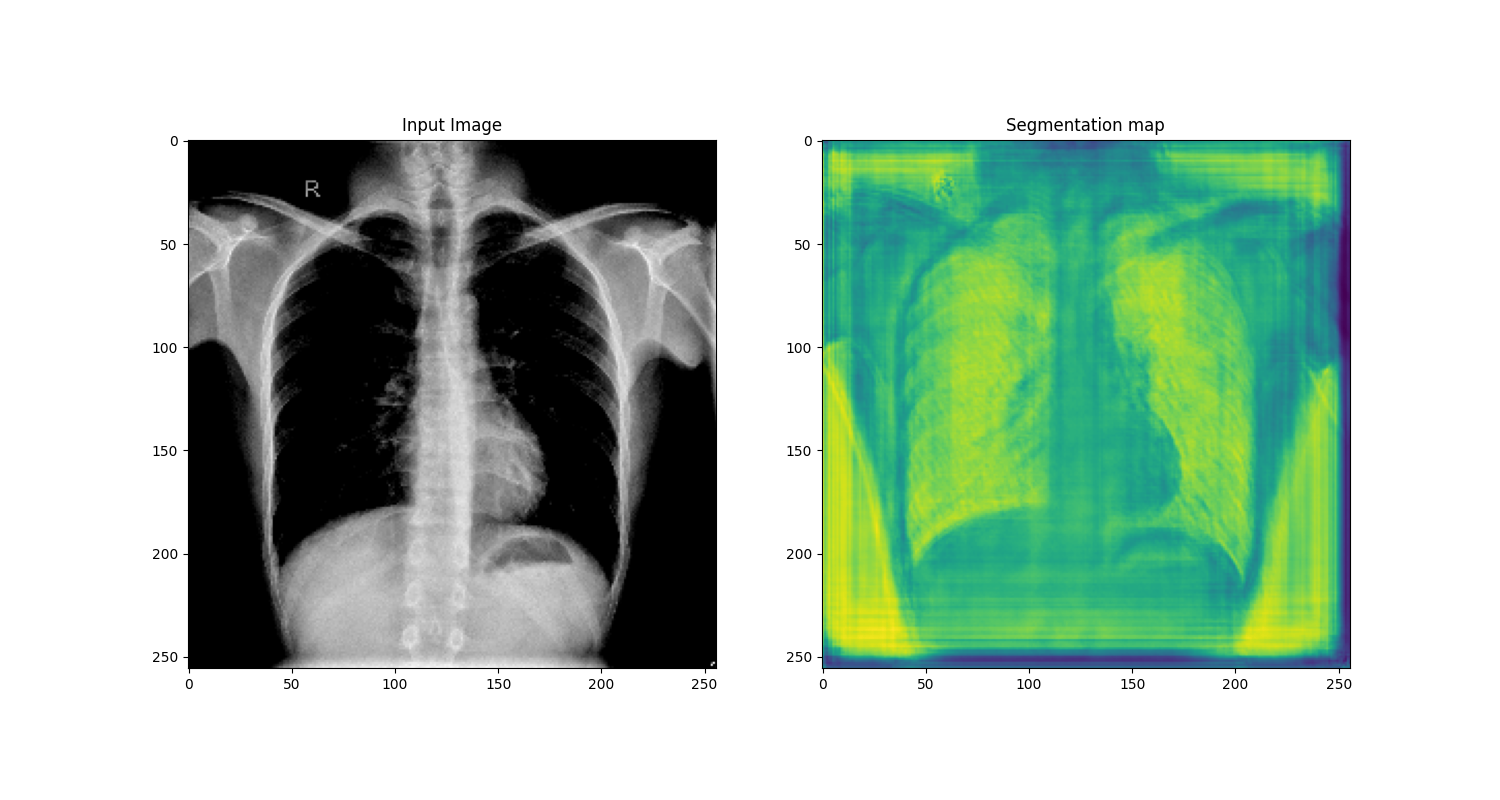
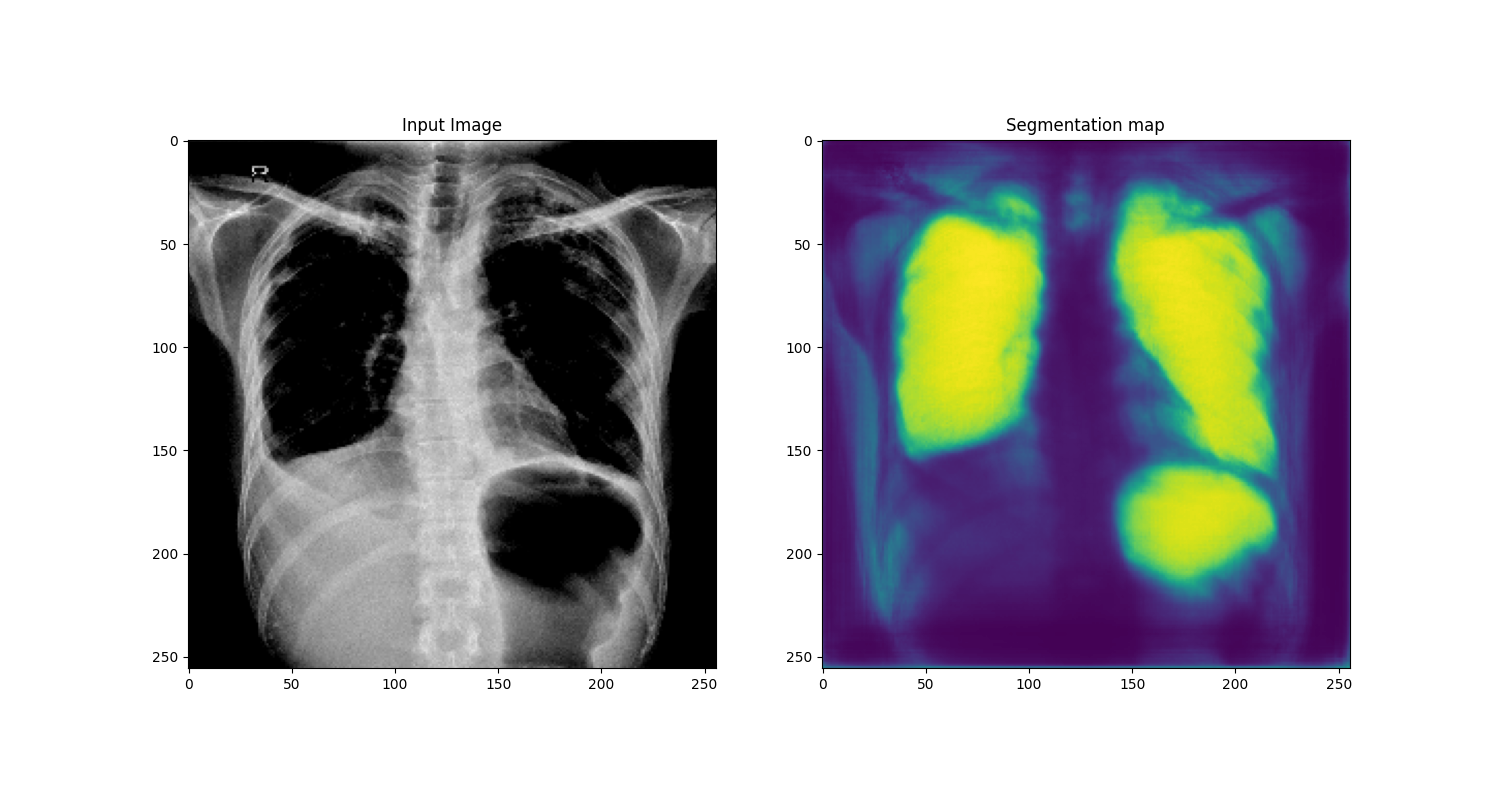
Set momentum in EMA-unet to 0.1

diff --git a/ema-unet/train.py b/ema-unet/train.py
@@ -14,7 +14,7 @@ from argparse import ArgumentParser
 parser = ArgumentParser()
 parser.add_argument('--data', type=str, required=True, help='Path to the data directory with subdirectories "images" and "masks"')
 parser.add_argument('--u-data', type=str, required=False, default=None, help='Path to the unlabelled dataset')
-parser.add_argument('--momentum', type=str, required=False, default=0.999, help='EMA momentum')
+parser.add_argument('--momentum', type=str, required=False, default=0.1, help='EMA momentum')
 parser.add_argument('--epochs', type=int, required=False, default=100, help='Number of training iterations')
 parser.add_argument('--batch-size', type=int, required=False, default=16, help='Number of instances per batch')
 parser.add_argument('--u-batch-size', type=int, required=False, default=8, help='Number of instances per batch in unsupervised training')
@@ -39,7 +39,13 @@ def train_step(model, opt, batch):
     return loss
 
 @tf.function
-def train_step_unsupervised(ema_model, opt, batch, alpha=0.005):
+def train_step_unsupervised(ema_model, opt, batch, step, alpha=0.005):
+    # Compute consistency weight
+    consistency = 100.0
+    consistency_rampup = 5
+
+    alpha = consistency * EMA_Unet.sigmoid_rampup(step, consistency_rampup)
+
     with tf.GradientTape() as tape:
         mse = MeanSquaredError()
         strong_aug, weak_aug = batch
@@ -95,7 +101,7 @@ def train(model, train_dataset, val_dataset, u_dataset=None, save_path='checkpoi
         if(u_dataset is not None):
             with tqdm.tqdm(total=unsupervised_steps, colour='red') as pbar:
                 for batch in u_dataset:
-                    unsupervised_loss = train_step_unsupervised(model, optimizer, batch)
+                    unsupervised_loss = train_step_unsupervised(model, optimizer, batch, i+1)
                     unsupervised_loss = unsupervised_loss.numpy()
 
                     pbar.set_postfix({'unsupervised_loss' : f'{unsupervised_loss:.4f}'})

diff --git a/ema-unet/models.py b/ema-unet/models.py
@@ -1,3 +1,4 @@
+import numpy as np
 import tensorflow as tf
 from tensorflow.keras.layers import *
 from tensorflow.keras.models import Model
@@ -11,7 +12,9 @@ class EMA_Unet:
         self.momentum = momentum
 
     def update_ema_params(self, step):
-        alpha = self.momentum #min(self.momentum, 1 - (1/(1 + step)))
+        alpha = min(self.momentum, 1 - (1/(1 + step)))
+        if(step == 1):
+            self.teacher.set_weights(self.student.get_weights())
 
         for i, s_layer in enumerate(self.student.layers):
             s_params = s_layer.weights
@@ -23,6 +26,17 @@ class EMA_Unet:
                     updated_params.append(alpha * t_params[j] + (1 - alpha) * s_params[j])
 
                 self.teacher.layers[i].set_weights(updated_params)
+
+    @staticmethod
+    def sigmoid_rampup(current, rampup_length):
+        """Exponential rampup from https://arxiv.org/abs/1610.02242"""
+        if rampup_length == 0:
+            return 1.0
+        else:
+            current = np.clip(current, 0.0, rampup_length)
+            phase = 1.0 - current / rampup_length
+            return float(np.exp(-5.0 * phase * phase))
+
 
     @staticmethod
     def build_unet_model():
